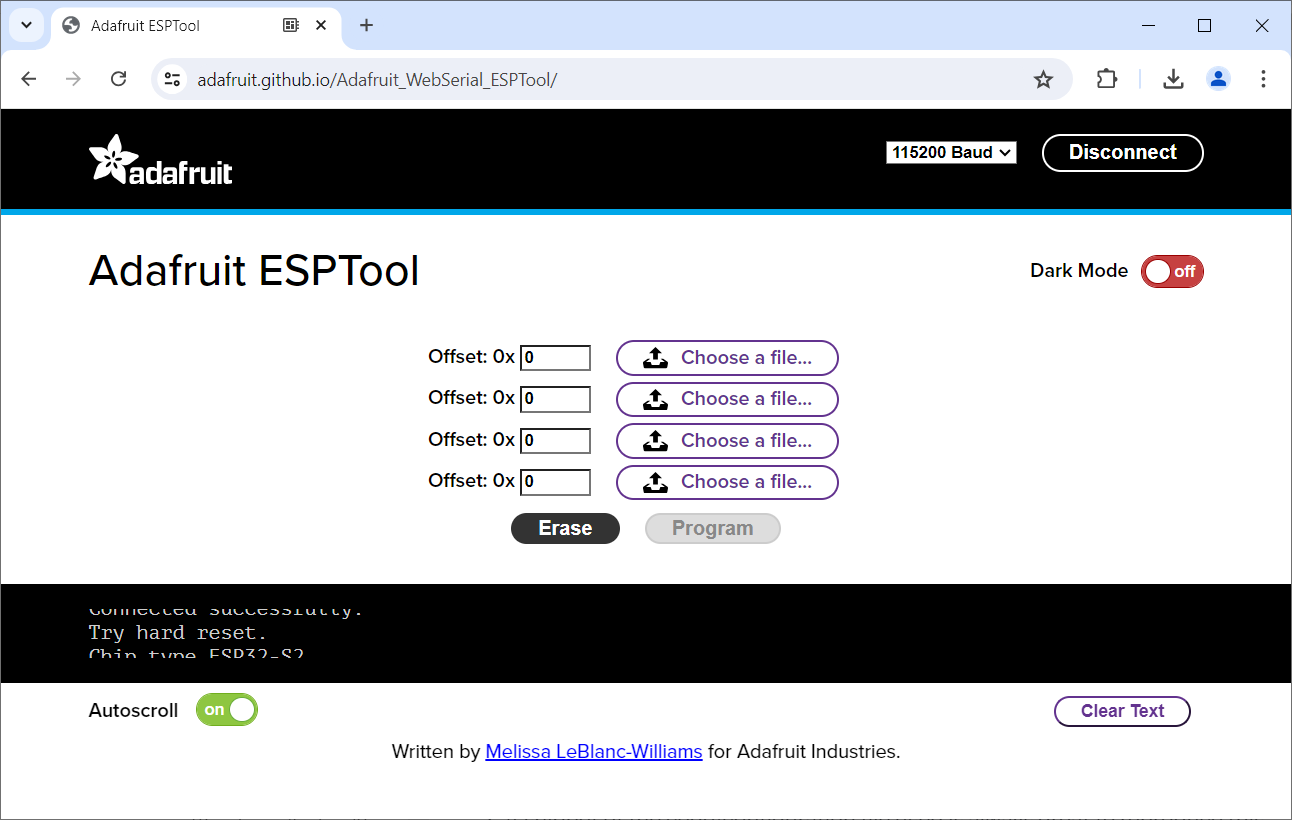
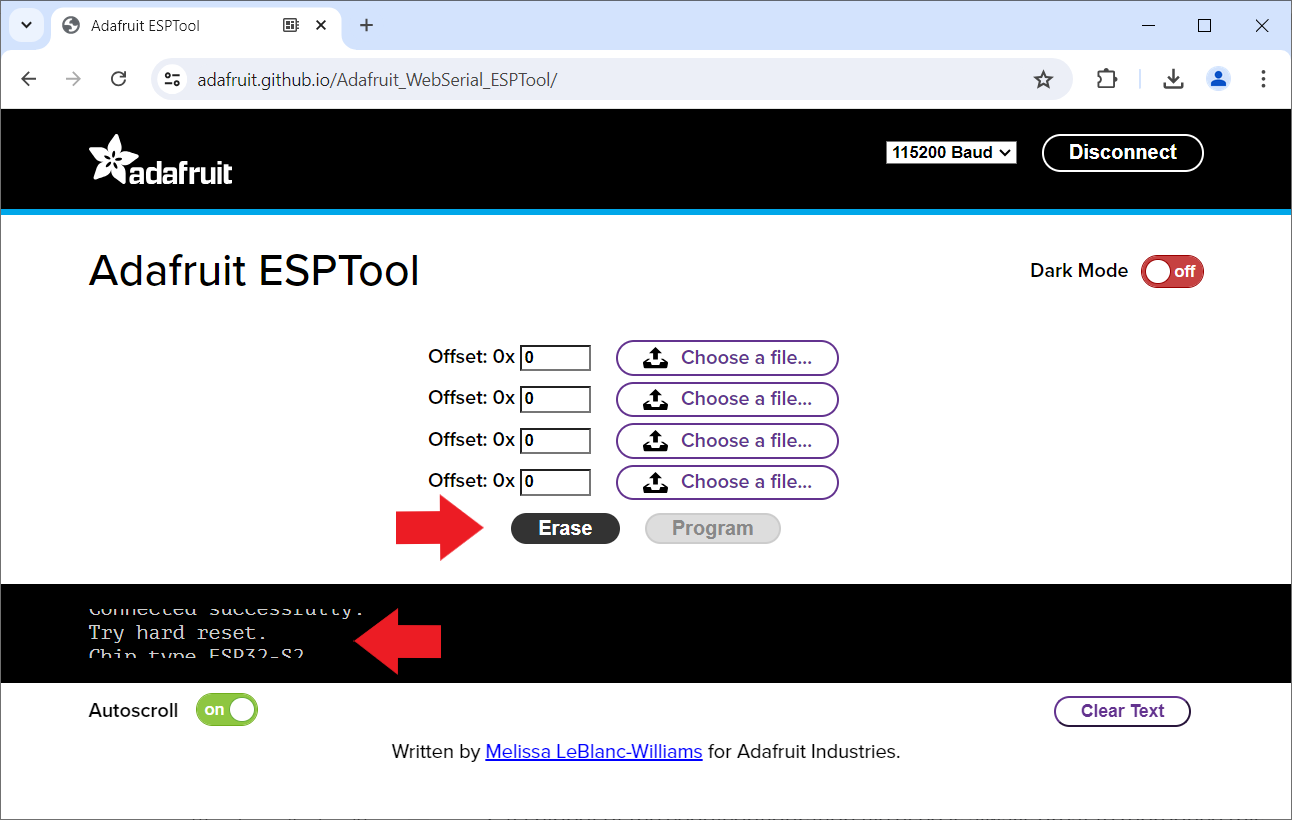
esphome

Changed region(s): [[0.2786, 0.7317, 0.3406, 0.8232], [0.3096, 0.6098, 0.3715, 0.6707]]

diff --git a/Tools/Software/EspHome/Provisioning Directly/README.md b/Tools/Software/EspHome/Provisioning Directly/README.md
@@ -4,67 +4,66 @@
 
 > Provisioning A New Microcontroller Directly Via USB Cable
 
-In the previous examples, the microcontroller was provisioned via a *binary firmware file* that was either downloaded from *esphome.io*, or downloaded from your *ESPHome Dashboard*.
+In the previous examples, the microcontroller was provisioned via a *binary firmware file* that was either downloaded from *esphome.io*, or downloaded from your *ESPHome Dashboard*. [ESPHome Web Tool](https://web.esphome.io/) or [Adafruit ESPTool](https://adafruit.github.io/Adafruit_WebSerial_ESPTool/) was then used to upload the *firmware file* to the microcontroller.
 
-Here is another way that may be appealing if the computer that is running *ESPHome* is accessible to you:
+Here is another way to *provision* a fresh microcontroller. It *directly uploads* the *firmware* to the microcontroller without first exporting the *firmware* to a file.
 
-* **Create Configuration:** start in *ESPHome* by creating a *New Device* and describing your hardware
+## Prerequisites
+This approach is very convenient but has two important rules that must be met: 
+
+* **Connect USB To ESPHome:** the microcontroller must be connected via *USB cable* to the computer *that is running ESPHome*. When you run *ESPHome* locally, this would be your own computer. However, when you run *ESPHome Add-On* inside *Home Assistant*, it would be the computer that runs *Home Assistant*. Often, this is a *Raspberry Pi*. If it is physically accessible to you, just connect the *USB cable* to one of its *USB ports*.
+* **Compatible Microcontroller:** the microcontroller (board) must be compatible with [ESPHome Web Tool](https://web.esphome.io/). If you can't upload firmware with this tool, then you can't upload it directly, either, because *ESPHome* is using the same tool chain. So if you get connection errors with your microcontroller, you are limited to [manual provisioning](https://done.land/tools/software/esphome/manualprovisioning).
+
+
+## Provisioning Directly
+These are the steps to *provision* a new microcontroller *directly* from within *ESPHome*:
+
+* **Add New Device:** start in *ESPHome* by creating a *New Device*. This creates a new *default configuration*. You can *edit* it to describe your hardware, or start with the automatically created *default configuration*.
 * **Connect To ESPHome:** connect the microcontroller via *USB cable* to the computer **that is running ESPHome**.
 * **Install Directly:** create and upload the *firmware* directly to the microcontroller. 
 
 With this approach, there is no need for separate web-based tools like *ESPHome Web Tool*, and you don't need to fiddle with *firmware files* yourself.
 
 
-## Adding New ESPHome Device
+### Adding New ESPHome Device
 
-This first step does not require any hardware. You are creating a *ESPHome default configuration*.
+Open the *ESPHome Dashboard*. If you are using *Home Assistant*, click *ESPHome* in its *sidebar*.
 
 
-When using *ESPHome* inside *Home Assistant*, click *ESPHome* in the *Home Assistant* side bar. This opens your *ESPHome dashboard*:
 
-<img src="images/gui_esphome_addon.png" width="100%" height="100%" />
+<details><summary>How To Open ESPHome Dashboard Without Home Assistant</summary><br/>
 
-<details><summary>Using ESPHome Stand-Alone</summary><br/>
-
-If you have installed *ESPHome* stand-alone, you need to first start the local *ESPHome webserver* via this command: `esphome dashboard d:\esphome_projects`. Make sure you adjust the path at the end of the command with the path to your local *ESPHome* project folder that you created during installation.
+If you have [installed *ESPHome* stand-alone](https://done.land/tools/software/esphome#installing-stand-alone-esphome-instance), you need to first start the local *ESPHome webserver* via this command: `esphome dashboard d:\esphome_projects`. Make sure you adjust the path at the end of the command with the path to your local *ESPHome* project folder that you created during installation.
 
 > [!TIP]
 > You can enter above command in any *CLI console* (i.e. *cmd.exe* or *powershell.exe*), or you can press `WIN`+`R` to open the *Run* dialog, and enter the command here.
 
 
-
-
-
-The command opens a console window that runs the local webserver. Now open a browser, and enter this url: `http://localhost:6052`. This opens the local stand-alone *ESPHome dashboard*:
-
-
-<img src="images/dashboard_local.png" width="100%" height="100%" />
-
+The command opens a console window that runs the local webserver. Now open a browser, and enter this url: `http://localhost:6052`. This opens the local stand-alone *ESPHome dashboard*.
 
 </details>
 
-
-### Add New Configuration
+<img src="images/gui_esphome_addon.png" width="100%" height="100%" />
 
 Inside the *ESPHome Dashboard*, add a new device:
 
-1. Click *NEW DEVICE*. A dialog opens and explains a lot of things that you can safely ignore for now. Just click *CONTINUE*.
+1. Click *NEW DEVICE*. A dialog opens and explains things that you can ignore for now. Just click *CONTINUE*.
 
-<img src="images/1_esphome_config_start.png" width="100%" height="100%" />
+    <img src="images/1_esphome_config_start.png" width="100%" height="100%" />
 
-2. You are asked to assign a *name* to your new device. Spaces will be converted to hyphens. In this example, the chosen name is *CO2 Sensor #1* (because ultimately, I want this new *ESPHome device* to become a precision CO2 sensor). Click *Next*.
+2. Assign a *name* to your new device that describes your project and is not used with any other existing *ESPHome device*. Spaces are converted to hyphens. Click *Next*.
 
-<img src="images/2_esphome_config_name.png" width="100%" height="100%" />
+    <img src="images/2_esphome_config_name.png" width="100%" height="100%" />
 
-4. Now select the type of microcontroller you are using. 
+3. Select the type of microcontroller you are using. 
 
-<img src="images/3_esphome_config_type.png" width="100%" height="100%" />
+    <img src="images/3_esphome_config_type.png" width="100%" height="100%" />
 
-5. Access to your device is going to be protected by an *API key*. The next dialog page shows the assigned key so you can copy it. This is not necessary though as *ESPHome* manages the key for you, and you can always show it in the *ESPHome dashboard* later. Click *SKIP* to skip uploading the automatically generated firmware to your microcontroller for now.
+4. Access to your device is going to be protected by an *API key*. The next dialog page shows the assigned key so you can copy it. This is not necessary though as *ESPHome* manages the key for you, and you can always show it in the *ESPHome dashboard* later. Click *SKIP* to skip uploading the automatically generated firmware to your microcontroller for now.
 
 <img src="images/4_esphome_config_secret.png" width="100%" height="100%" />
 
-In your *ESPHome dashboard*, you now see your new *ESPHome device*. It is marked as *OFFLINE* in the tiles' right upper corner which isn't surprising: the device does not yet physically exist. Up to this point, we just created the *default configuration*.
+In *ESPHome dashboard*, you now see your new *ESPHome device*. It is marked as *OFFLINE* in the tiles' right upper corner. Since the device does not yet physically exist, that's not surprising. Up to this point, we just created a *default configuration*.
 
 
 ### Default Configuration
@@ -263,4 +262,4 @@ If you'd like to use *ping* instead of *mDNS* to check availability, in *Home As
 
 > Tags: EspHome, Home Assistant, Provision, Initialize, Configuration
 
-[Visit Page on Website](https://done.land/tools/software/esphome/directlyupdating?350408071511241259) - created 2024-06-03 - last edited 2024-07-10
+[Visit Page on Website](https://done.land/tools/software/esphome/provisioningdirectly?350408071511241259) - created 2024-06-03 - last edited 2024-07-10

diff --git a/Tools/Software/EspHome/Default Configuration/README.md b/Tools/Software/EspHome/Default Configuration/README.md
@@ -1,0 +1,124 @@
+<img src="/assets/images/homeassistant.png" width="80%" height="80%" />
+ 
+# Default Configuration
+
+> Default Configuration Defines The ESPHome Device Fundamentals And How You Can Wirelessly Access It
+
+Whenever you [create](https://done.land/tools/software/esphome/provisioningdirectly) or [adopt](https://done.land/tools/software/esphome/adoption) a new device in *ESPHome*, a *default configuration file* is automatically assigned to it and surfaces in *ESPHome Desktop*.
+
+This *configuration* defines every detail of your device. The initial *default content* focuses on the bare device fundamentals, and you can [add more details](https://done.land/tools/software/esphome/editconfiguration), for example to describe your hardware setup and add special functionality.
+
+## Overview
+Each device is represented by its own *configuration file* and surfaces as a *tile* in *ESPHome Dashboard*. 
+
+The name of the *configuration file* is the name of your device, and the file type is *yaml*. Click *EDIT* to view its content.
+
+
+<img src="images/editconfig.png" width="100%" height="100%" />
+
+The *default configuration* takes care of the fundamentals that are necessary to work with the device, like setting a device name, assigning a *mDNS host name*, defining the microcontroller type, supplying connection details like *WiFi SSID* and *password*, and so on. 
+
+Here is a sample *configuration* from a newly created *ESPHome device*:
+
+
+````
+esphome:
+  name: co2-sensor-1
+  friendly_name: CO2 Sensor #1
+
+esp32:
+  board: esp32dev
+  framework:
+    type: arduino
+
+# Enable logging
+logger:
+
+# Enable Home Assistant API
+api:
+  encryption:
+    key: "..."
+
+ota:
+  - platform: esphome
+    password: "..."
+
+wifi:
+  ssid: !secret wifi_ssid
+  password: !secret wifi_password
+
+  # Enable fallback hotspot (captive portal) in case wifi connection fails
+  ap:
+    ssid: "Push-Button Fallback Hotspot"
+    password: "..."
+
+captive_portal:
+````
+
+You typically don't need to touch these entries unless you *really* want to change these fundamentals.
+
+> [!IMPORTANT]
+> Changing default entries can render your device inaccessible when you don't know what you are doing. For example, changing *name:* to assign a new hostname to your device fails miserably: ESPHome would use the *new name* to try and contact your device wirelessly to apply the new configuration. Since the device hasn't been renamed yet, it still uses its *old name* and becomes inaccessible. If you really want to rename the device host name, in its tile, click the *three dot* menu and choose *Rename hostname*.
+
+All items in the *configuration* describe their purpose when you *hover* over them with the mouse pointer: *tooltips* summarize the purpose, and links guide you to the *documentation pages*.
+
+<img src="images/7_tooltip.png" width="100%" height="100%" />
+
+
+
+### Default Configuration Entries
+Here is a quick overview of the *default entries* in your *default configuration*:
+
+* **esphome:**
+  * *name:* *mDNS* network name that is assigned to the device. It is derived from your project name. Spaces and special characters are replaced.
+  * *friendly name:* clear-text name that appears in the *ESPHome dashboard*. 
+
+* **esp32:** (this can be a different item when you have selected a different microcontroller)
+  * *board:* the type of microcontroller board. *esp32dev* is the default configuration for generic *ESP32* boards.
+  * *framework:* the type of programming framework to use. By default, *ESPHome* uses *Arduino*, but you could also use *ESP-IDF* (the ESP vendors' own programming environment)
+
+* **logger:** by default, all messages with a severity of *DEBUG* or higher are logged through the serial port. You can [adjust](https://esphome.io/components/logger.html#logger-component) these settings, i.e. for more verbose logging.
+
+* **api:** specifies an *encryption key* that is required whenever you want to communicate wirelessly with the microcontroller via the *ESPHome API*. This key is automatically generated and stored for you. It must match the key inside the *firmware* that was uploaded to your microcontroller.   
+
+* **ota:** defines the secret password for *over-the-air* firmware updates. This password must match the password defined in the uploaded firmware. *ESPHome* can then upload future *firmware updates* conveniently via *WiFi*. The format for this entry has changed recently.   
+
+
+
+* **wifi:** defines the access parameters for your home *WiFi*. The actual *SSID* and *password* are stored globaly in the secret store.
+
+  * *ap:** if your microcontroller is unable to connect to your *home Wifi* for whatever reason, the *ESPHome firmware* automatically opens its own *WiFi access point* (*hotspot*). 
+
+* **captive_portal:** when this component is part of your *configuration*, it instructs your microcontroller to provide a web portal that you can use to change the *WiFi settings* or manually upload *new firmware*. The *captive portal* is activated when the regular *WiFi* cannot be reached, and can be accessed via the *hotspot* that is defined in *ap:*. There are no configuration settings for this item.
+
+## Verifying Configuration
+You can always formally verify a *configuration* by clicking the *three dot* menu in the device tile, then choosing *Validate*.
+
+Validation makes sure your *configuration* is formally valid. This is an important check once you start [editing and appending](https://done.land/tools/software/esphome/editconfiguration) the configuration, but it can reveal issues even without you touching anything.
+
+### Fixing Breaking Changes
+Every now and then, *ESPHome updates* introduce *breaking changes* that may include changes in the formatting rules. One such *breaking change* was introduced just recently (June, 2024). Let's look at this change, and how to identify (and fix) it.
+
+Previously, *OTA* was defined this way:
+
+````
+ota:
+  password: "..."
+````
+
+Starting with *ESPHome 2024.6.0*, this entry now must look like so:
+
+````
+ota:
+  - platform: esphome
+    password: "..."
+````
+
+*Validating* an old *configuration* would reveal a *formal problem*. You would then need to *edit* the *configuration*, identify the formal problem, and fix it.
+
+In the case of this breaking change, adding the line  `- platform: esphome` to the *OTA entry* fixes the problem and makes sure that you can compile and upload your *configuration* again with *ESPHome versions 2024.6.0 and above*.
+
+
+> Tags: EspHome, Configuration, OTA, Breaking Change
+
+[Visit Page on Website](https://done.land/tools/software/esphome/defaultconfiguration?509558071812240227) - created 2024-06-13 - last edited 2024-07-11

diff --git a/Tools/Software/EspHome/Manual Provisioning/README.md b/Tools/Software/EspHome/Manual Provisioning/README.md
@@ -77,9 +77,11 @@ The *default firmware file* used by *Provision For First Use* is used internally
 
 To find out the *url*, just visit the [ESPHome Web Tool](https://web.esphome.io/), connect it via *USB cable* to a supported microcontroller (i.e. *ESP32* or *ESP32-C3*). Once connected, right-click *PREPARE FOR FIRST USE*, and in the context menu click *Inspect*. This opens the browser *developer tools*. Click the tab *Network*.
 
+
+<img src="images/google_chrome_devtools_bin.png" width="100%" height="100%" />v
+
 Now, click *PREPARE FOR FIRST USE* to start the firmware upload. In the *Network* tab, you see the *urls* from which the tool downloads files. The list contains a bunch of *javascript files* plus the *binary firmware file* you need. It carries the extension *.bin*:
 
-<img src="images/google_chrome_devtools_bin.png" width="100%" height="100%" />
 
 When you hover over its entry or click it with the right mouse button, you see the full *url* and can open it in a separate browser tab (which essentially downloads it).
 
@@ -127,7 +129,7 @@ Open the [Adafruit ESP Tool](https://adafruit.github.io/Adafruit_WebSerial_ESPTo
 
     <img src="images/1_ada_s2.png" width="100%" height="100%" />
 
-3. Select the microcontroller in the dialog, and click *Connect*. Once connected, in the lower part of the window, click *Erase* to erase the memory. This may take a few seconds, and there are no progress indicators. Just hang in there for a while.
+3. Select the microcontroller in the dialog, and click *Connect*. Once connected, in the lower part of the window, click *Erase* to erase the memory. This may take a few seconds, and there are no progress indicators. The black terminal window tells you when the erase process has completed.
 
 
     <img src="images/2_erase_s2.png" width="100%" height="100%" />
@@ -139,17 +141,20 @@ Open the [Adafruit ESP Tool](https://adafruit.github.io/Adafruit_WebSerial_ESPTo
 
     <img src="images/4_ada_s2_progress.png" width="100%" height="100%" />
 
-6. Once the firmware has been transferred, press the reset button. 
+6. Once the firmware has been transferred, press the *reset* button on your microcontroller board to make sure it boots from the newly uploaded *firmware*. 
 
 ## What's Next
-If you used the default provisioning firmware downloaded from *esphome.io*, the device does not yet know how to connect to your *WiFi*.
-
-> [!TIP]
-> You may not want to immediately configure *WiFi* (as described below). If you just provisioned a bunch of microcontrollers but have no immediate use for them, just place them in a drawer. Once you are ready to use one of them, go ahead and configure *WiFi*.
+If you used the default provisioning firmware that you downloaded from *esphome.io*, the device does not yet know how to connect to your *WiFi*. You need to tell the device the *WiFi SSID* and *WiFi password* before it can go online and be discovered by *ESPHome*.
 
 Part of the default *ESPHome* provisioning firmware is *improv_serial* (*improv* via *BLE* is not available with the *ESP32 S2* as it does not support *bluetooth*). 
 
-This is how you set (or change) *WiFi access*:
+*Improv_serial* allows you to connect the device via *USB cable* and [ESPHome Web Tool](https://web.esphome.io/), then configure its *WiFi* in your browser.
+
+
+> [!NOTE]
+> The [default provisioning process](https://done.land/tools/software/esphome/provisionnewmicrocontroller) using [ESPHome Web Tool][ESPHome Web Tool](https://web.esphome.io/) *failed* for your particular microcontroller (which is why you are *on this page*). Fortunately, *Improv* uses the default *USB Port* and *not* the secondary USB Port that becomes active in *firmware upload mode*. So the *ESPHome Web Tool* works just fine - even with problematic boards like *ESP32 S2 Mini* - once a microcontroller is running *ESPHome firmware*.
+
+You can configure *WiFi* now (and complete the *provisioning process*), or do it later at any time. It just needs to be done *before* you can *see* and *adopt* the microcontroller into *ESPHome*.
 
 
 1. Connect the microcontroller via *USB cable* to your computer. **Do not** enable *firmware update mode*. If in doubt, press the *reset* button once. 
@@ -166,9 +171,6 @@ This is how you set (or change) *WiFi access*:
 
 5. Click *CONNECT TO WI-FI*, select the *WiFi SSID* you want to connect to, and click *CONNECT*. After a few seconds, you get a confirmation that the device is now fully configured.
 
-
-> [!NOTE]
-> Surprisingly, the *ESPHome Tool* works just fine with *ESP32 S2 Mini via USB* when configuring *WiFi*. That's because *Improv* uses its default *USB Port* that surfaces as *TinyUSB*. Just the secondary USB Port named *ESP32-S2* and opens in *firmware upload mode* is inaccessible to the *ESPHome Tool*.
 
 
 
